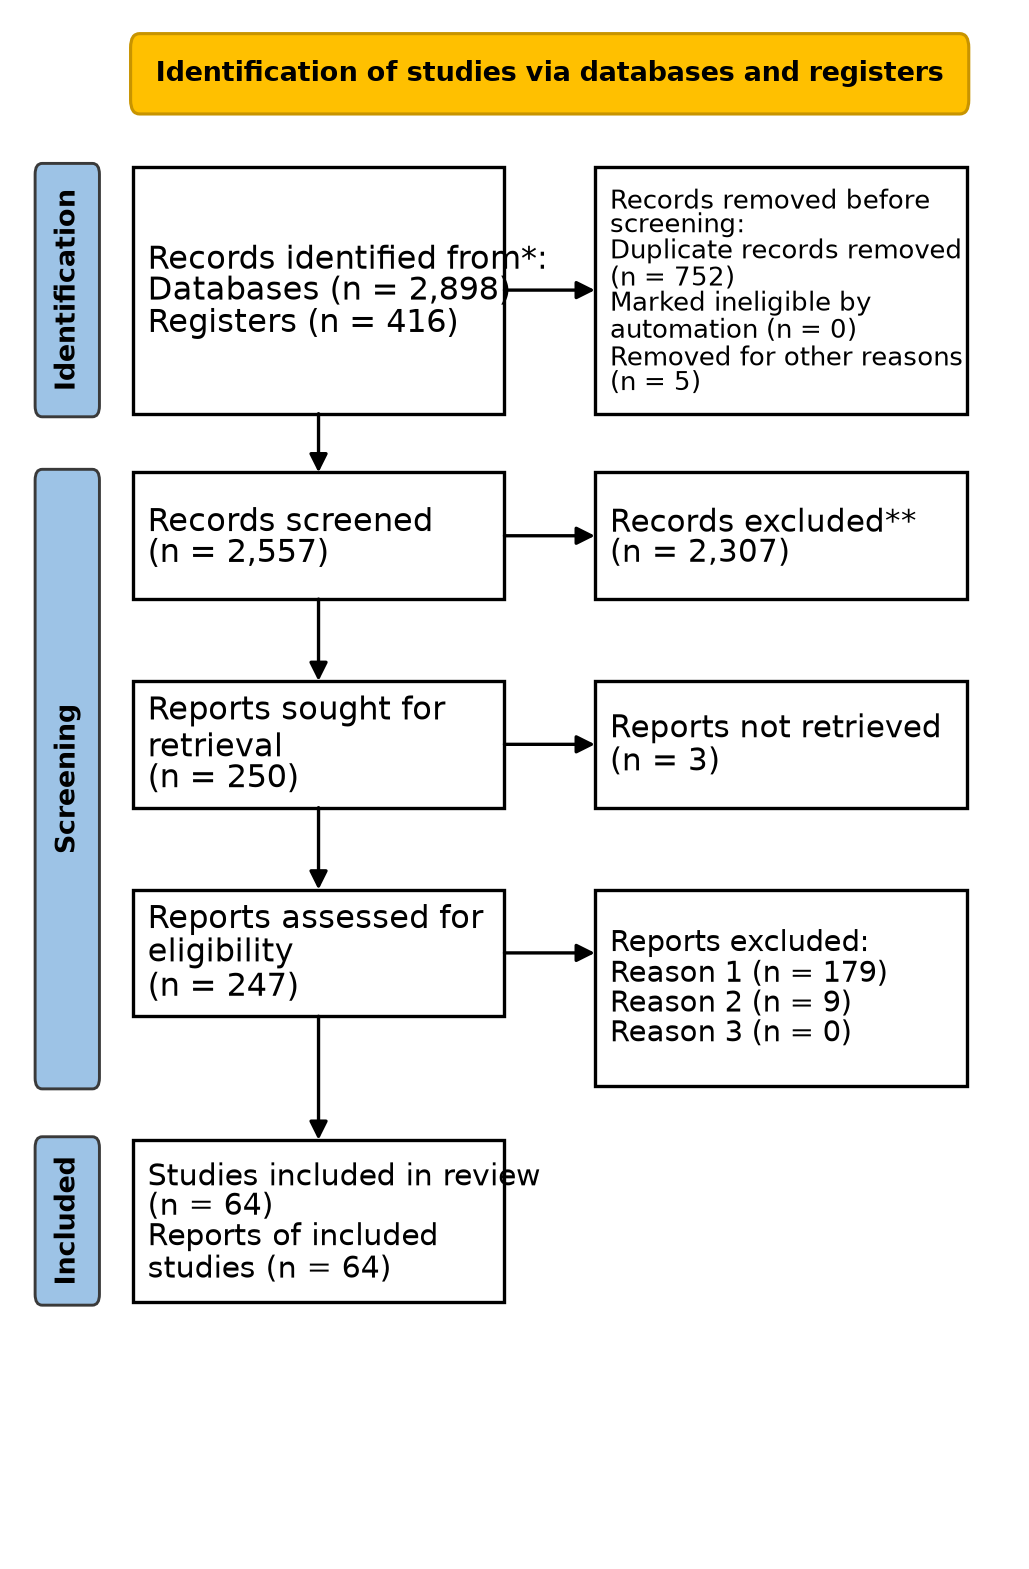
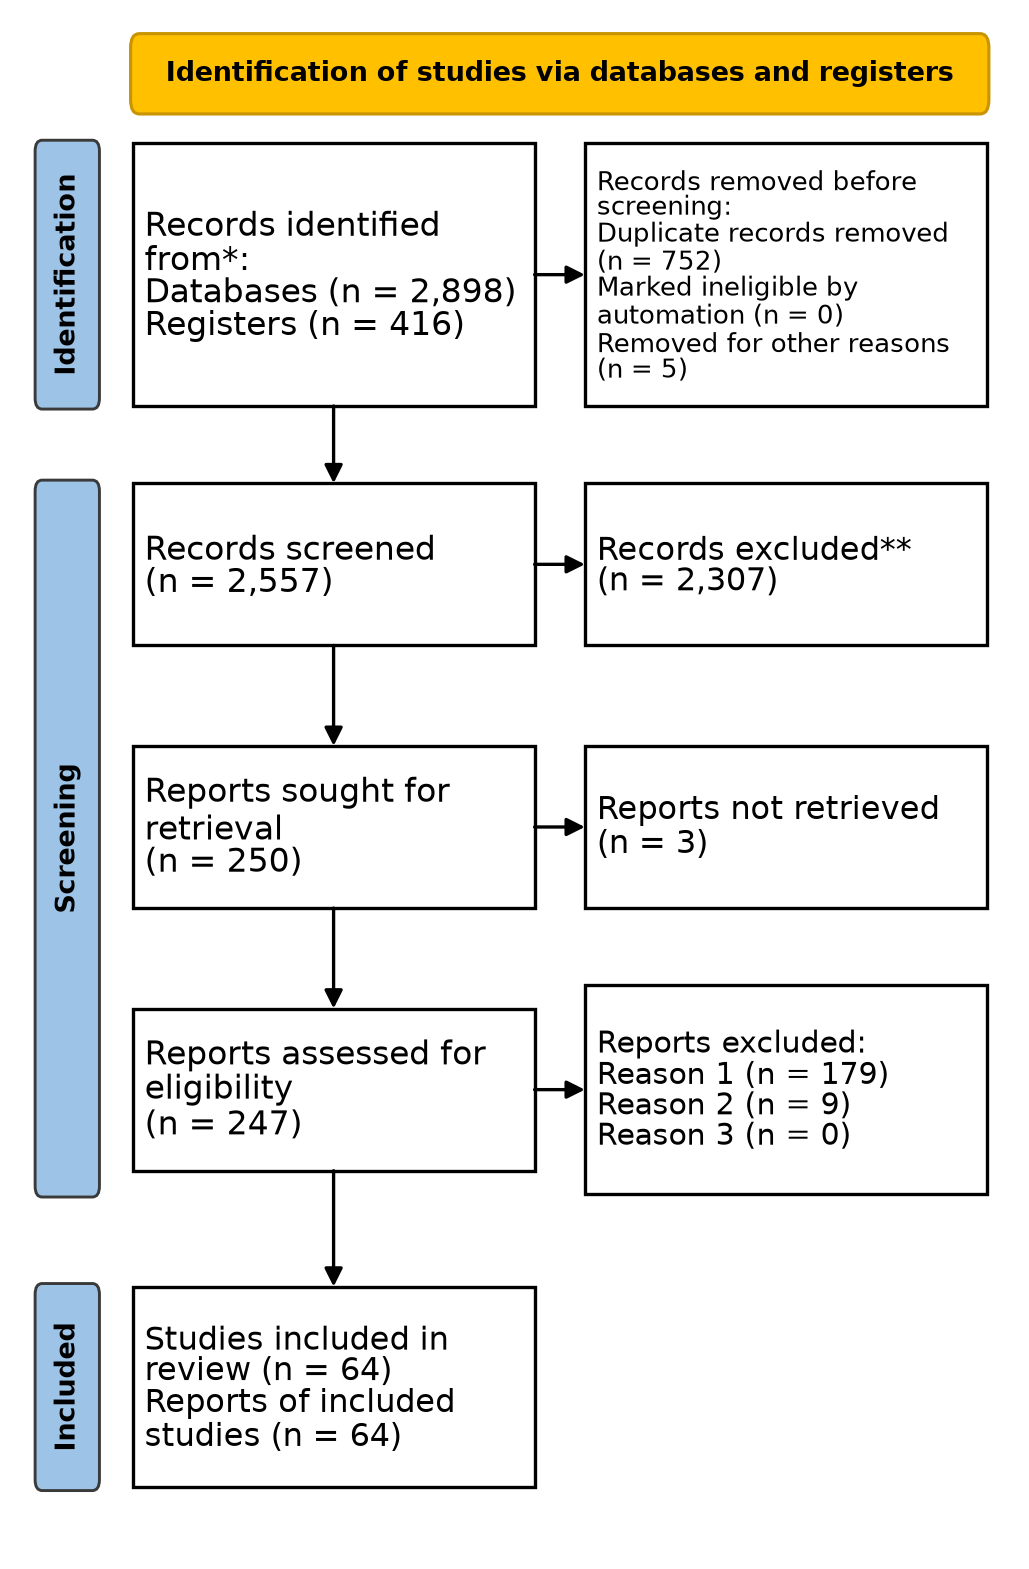
Use full portrait height for PRISMA flow

Changed region(s): [[0.0311, 0.0, 0.964, 0.9681], [0.0311, 0.0625, 0.0933, 0.3123], [0.0311, 0.4372, 0.0933, 0.5934]]

diff --git a/analysis/generate_outputs.py b/analysis/generate_outputs.py
@@ -426,11 +426,11 @@ def figure_prisma(counts: Mapping[str, int], warnings: Sequence[str], output_dir
     del warnings  # Arithmetic warnings remain in the generated QA report, not inside the figure.
 
     left_texts = [
-        f"Records identified from*:\nDatabases (n = {counts['identified_databases']:,})\nRegisters (n = {counts['identified_registers']:,})",
+        f"Records identified\nfrom*:\nDatabases (n = {counts['identified_databases']:,})\nRegisters (n = {counts['identified_registers']:,})",
         f"Records screened\n(n = {counts['screened']:,})",
         f"Reports sought for\nretrieval\n(n = {counts['reports_sought']:,})",
         f"Reports assessed for\neligibility\n(n = {counts['reports_assessed']:,})",
-        f"Studies included in review\n(n = {counts['studies_included']:,})\nReports of included\nstudies (n = {counts['reports_included']:,})",
+        f"Studies included in\nreview (n = {counts['studies_included']:,})\nReports of included\nstudies (n = {counts['reports_included']:,})",
     ]
     right_texts = [
         (
@@ -470,7 +470,7 @@ def figure_prisma(counts: Mapping[str, int], warnings: Sequence[str], output_dir
             )
         )
         ax.text(
-            x + 0.015,
+            x + 0.012,
             y + height / 2,
             label,
             ha="left",
@@ -534,7 +534,7 @@ def figure_prisma(counts: Mapping[str, int], warnings: Sequence[str], output_dir
     ax.add_patch(
         FancyBboxPatch(
             (0.12, 0.936),
-            0.83,
+            0.85,
             0.048,
             boxstyle="round,pad=0.002,rounding_size=0.009",
             linewidth=0.75,
@@ -543,7 +543,7 @@ def figure_prisma(counts: Mapping[str, int], warnings: Sequence[str], output_dir
         )
     )
     ax.text(
-        0.535,
+        0.545,
         0.960,
         "Identification of studies via databases and registers",
         ha="center",
@@ -553,26 +553,28 @@ def figure_prisma(counts: Mapping[str, int], warnings: Sequence[str], output_dir
         color="black",
     )
 
-    left_x, right_x, width = 0.12, 0.58, 0.37
-    id_y, id_h = 0.740, 0.160
-    stage_h = 0.082
-    ys = [id_y, 0.620, 0.485, 0.350, 0.165]
-    heights = [id_h, stage_h, stage_h, stage_h, 0.105]
+    # Fill the portrait canvas vertically so the cells can retain a readable
+    # single-column font size without crowding or overflowing their borders.
+    left_x, right_x, width = 0.12, 0.57, 0.40
+    id_y, id_h = 0.745, 0.170
+    stage_h = 0.105
+    ys = [id_y, 0.590, 0.420, 0.250, 0.045]
+    heights = [id_h, stage_h, stage_h, stage_h, 0.130]
 
     add_phase(ax, 0.025, id_y, 0.060, id_h, "Identification")
-    add_phase(ax, 0.025, 0.305, 0.060, 0.397, "Screening")
+    add_phase(ax, 0.025, 0.235, 0.060, 0.460, "Screening")
     add_phase(ax, 0.025, ys[-1], 0.060, heights[-1], "Included")
 
     for index, y in enumerate(ys):
-        left_font = 7.7 if index != 4 else 7.25
+        left_font = 7.9 if index != 4 else 7.6
         add_box(ax, left_x, y, width, heights[index], left_texts[index], left_font, 1.04)
         if index < 4:
             if index == 0:
-                right_y, right_h, right_font = id_y, id_h, 6.15
+                right_y, right_h, right_font = id_y, id_h, 6.35
             elif index == 3:
-                right_y, right_h, right_font = 0.305, 0.127, 7.0
+                right_y, right_h, right_font = 0.235, 0.135, 7.15
             else:
-                right_y, right_h, right_font = y, heights[index], 7.55
+                right_y, right_h, right_font = y, heights[index], 7.75
             add_box(ax, right_x, right_y, width, right_h, right_texts[index], right_font, 1.02)
             add_arrow(ax, left_x + width, y + heights[index] / 2, right_x, y + heights[index] / 2)
         if index < len(ys) - 1: